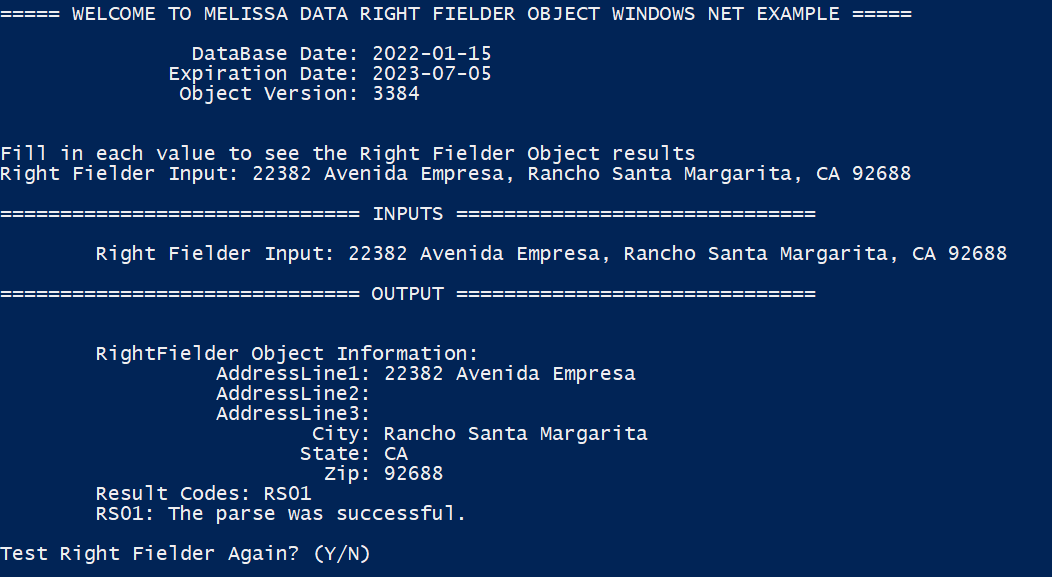
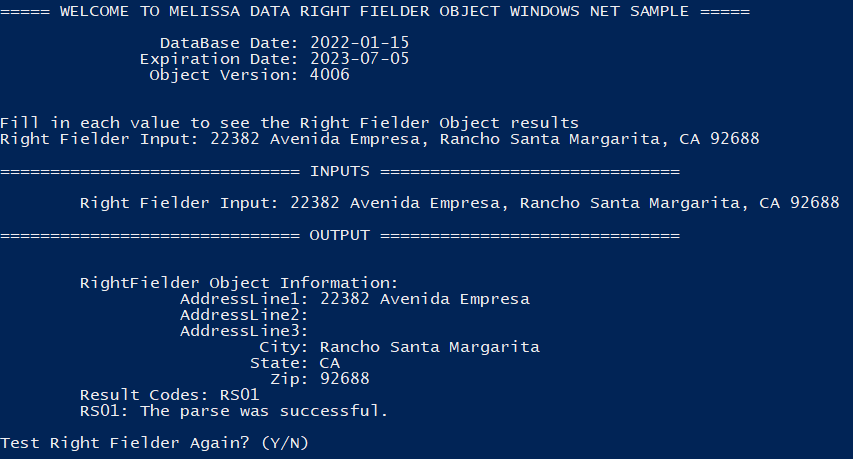
Commit C# Dotnet sample code for Right Fielder Object with .NET 6.0

diff --git a/MelissaDataRightFielderObjectWindowsNETSample/Program.cs b/MelissaDataRightFielderObjectWindowsNETSample/Program.cs
@@ -5,7 +5,7 @@ using System.IO;
 using System.Reflection;
 using MelissaData;
 
-namespace MelissaDataRightFielderObjectWindowsNETExample
+namespace MelissaDataRightFielderObjectWindowsNETSample
 {
   class Program
   {
@@ -47,12 +47,11 @@ namespace MelissaDataRightFielderObjectWindowsNETExample
           }
         }
       }
-
     }
 
     static void RunAsConsole(string license, string testInput, string dataPath)
     {
-      Console.WriteLine("\n\n===== WELCOME TO MELISSA DATA RIGHT FIELDER OBJECT WINDOWS NET EXAMPLE =====\n");
+      Console.WriteLine("\n\n===== WELCOME TO MELISSA DATA RIGHT FIELDER OBJECT WINDOWS NET SAMPLE =====\n");
 
       RightFielderObject rightFielderObject = new RightFielderObject(license, dataPath);
 
@@ -129,7 +128,6 @@ namespace MelissaDataRightFielderObjectWindowsNETExample
         //Console.WriteLine($"\t          Unrecognized: {rightFielderObject.mdRightFielder.GetUnrecognized()}");
         Console.WriteLine($"\tResult Codes: {dataContainer.ResultCodes}");
 
-
         String[] rs = dataContainer.ResultCodes.Split(',');
         foreach (String r in rs)
           Console.WriteLine($"        {r}: {rightFielderObject.mdRightFielder.GetResultCodeDescription(r, mdRightFielder.ResultCdDescOpt.ResultCodeDescriptionLong)}");
@@ -164,7 +162,6 @@ namespace MelissaDataRightFielderObjectWindowsNETExample
           }
         }
       }
-
       Console.WriteLine("\n============ THANK YOU FOR USING MELISSA DATA NET OBJECT ===========\n");
     }
   }
@@ -183,20 +180,7 @@ namespace MelissaDataRightFielderObjectWindowsNETExample
       mdRightFielder.SetLicenseString(license);
       dataFilePath = dataPath;
       
-      /**
-       * DatabaseDate is the date of your data files. The data files should be one month behind the DQT release.  
-       * If you are using the 2020-10-15 release, the DatabaseDate should be 2020-09-15.
-       * 
-       * If you see a different date either download the new data files or use the Melissa Updater program to
-       * update your data files. 
-       * 
-       * If 1970-00-00 is the DatabaseDate, the Right Fielder Object was unable to reach the data files.
-       * 
-       * ---------------------------READING THIS MAY SAVE YOU HOURS OF YOUR TIME-------------------------------
-       * If the DatabaseDate is not consistent with the data files and your are having issues getting results
-       * using mdRightFielder, it is likely a license string issue and yours may have expired.
-       */
-
+      // If you see a different date than expected, check your license string and either download the new data files or use the Melissa Updater program to update your data files.  
       mdRightFielder.SetPathToRightFielderFiles(dataFilePath);
       mdRightFielder.ProgramStatus pStatus = mdRightFielder.InitializeDataFiles();
 
@@ -211,7 +195,7 @@ namespace MelissaDataRightFielderObjectWindowsNETExample
       Console.WriteLine($"              Expiration Date: {mdRightFielder.GetLicenseExpirationDate()}");
 
       /**
-       * This number should match with file properties of the mdRightFielder.dll File Version.
+       * This number should match with file properties of the Melissa Data Object binary file.
        * If TEST appears with the build number, there may be a license key issue.
        */
       Console.WriteLine($"               Object Version: {mdRightFielder.GetBuildNumber()}\n");
@@ -220,7 +204,6 @@ namespace MelissaDataRightFielderObjectWindowsNETExample
     // This will call the lookup function to process the input as well as generate the result codes
     public void ExecuteObjectAndResultCodes(ref DataContainer data)
     {
-
       // These are the configuarble pieces of the right fielder object. We are setting what kind of information we want to be looked up
       // SetUserPattern Method - Ex. Social Security Number
 
@@ -230,8 +213,7 @@ namespace MelissaDataRightFielderObjectWindowsNETExample
 
       // ResultsCodes explain any issues phone object has with the object.
       // List of result codes for Phone object
-      // https://wiki.melissadata.com/index.php?title=Result_Code_Details#RightFielder_Object
-
+      // https://wiki.melissadata.com/?title=Result_Code_Details#RightFielder_Object
     }
   }
 

diff --git a/README.md b/README.md
@@ -1,8 +1,8 @@
-# Melissa Data Right Fielder Object Windows Net Example
+# Melissa Data Right Fielder Object Windows Net Sample
 
 ## Purpose
 
-This is an example of the Melissa Data Right Fielder Object using C#
+This is a sample of the Melissa Data Right Fielder Object using C#
 
 The console will ask the user for:
 
@@ -19,9 +19,9 @@ And return
 
 ## Tested Environments
 
-- Windows 64-bit .NET Core 3.1 and .NET 5.0
+- Windows 64-bit .NET 6.0, .NET 5.0, .NET Core 3.1
 - Powershell 5.1
-- Melissa data files for 2022-11
+- Melissa data files for 2022-12
 
 ## Required File(s) and Programs
 
@@ -38,28 +38,28 @@ This is the c++ code of the Melissa Data Object.
 
 These instructions will get you a copy of the project up and running on your local machine for development and testing purposes.
 
-This project is compatible with both .NET Core 3.1 and .NET 5.0. If you would like to run this project for .NET 5.0, proceed with the following procedures but check for and download .NET 5.0 instead.
+This project is compatible with .NET 6.0, .NET 5.0, and .NET Core 3.1. If you would like to run this project for any other version besides .NET 6.0, proceed with the following procedures but check for and download your desired .NET version.
 
 #### Install the Dotnet Core SDK
-Before starting, make sure that the .NET Core 3.1 SDK has been correctly installed on your machine (If you have Visual Studio installed, you most likely have it already). If you are unsure, you can check by opening a command prompt window and typing the following:
+Before starting, make sure that the .NET 6.0 SDK has been correctly installed on your machine (If you have Visual Studio installed, you most likely have it already). If you are unsure, you can check by opening a command prompt window and typing the following:
 
 `dotnet --list-sdks`
 
-If the .NET Core 3.1 SDK is already installed, you should see it in the following list:
+If the .NET 6.0 SDK is already installed, you should see it in the following list:
 
 ![alt text](/screenshots/dotnet_output.PNG)
 
-As long as the above list contains version `3.1.xxx` (underlined in red), then you can skip to the next step. If your list does not contain version 3.1, or you get any kind of error message, then you will need to download and install the .NET Core 3.1 SDK from the Microsoft website.
+As long as the above list contains version `6.0.xxx` (underlined in red), then you can skip to the next step. If your list does not contain version 6.0, or you get any kind of error message, then you will need to download and install the .NET 6.0 SDK from the Microsoft website.
 
 To download, follow this link: https://dotnet.microsoft.com/en-us/download/dotnet
 
-Select `.NET Core 3.1` and you will be navigated to the download page.
+Select `.NET 6.0` and you will be navigated to the download page.
 
 Click and download the `x64` SDK installer for your operating system.
 
 (IMPORTANT: Make sure you download the SDK, NOT the runtime. The SDK contains both the runtime as well as the tools needed to build the project.)
 
-![alt text](/screenshots/sdkDownload.jpg)
+![alt text](/screenshots/net6.png)
 
 Once clicked, your web browser will begin downloading an installer for the SDK. Run the installer and follow all of the prompts to complete the installation (your computer may ask you to restart before you can continue). Once all of that is done, you should be able to verify that the SDK is installed with the `dotnet --list-sdks` command.
 
@@ -96,20 +96,21 @@ Melissa Updater is a CLI application allowing the user to update their Melissa a
 	- It will handle all of the data download/path and dll(s) for you. 
 2.  If you already have the latest DQS Release (ZIP), you can find the data file(s) and dll(s) in there
 	- Use the location of where you copied/installed the data and update the "$DataPath" variable in the powershell script.
-	- Copy all the dll(s) mentioned above into the `MelissaDataRightFielderObjectWindowsNETExample` project folder.
+	- Copy all the dll(s) mentioned above into the `MelissaDataRightFielderObjectWindowsNETSample` project folder.
 
 ----------------------------------------
 
 #### Configure Target Framework
 
-Depending on your target .NET framework, you may need to configure the powershell script. In order to do this, open up the `MelissaDataRightFielderObjectWindowsNETExample.ps1` for editing, proceed to the bottom of the script where you will find this section of code.
+Depending on your target .NET framework, you may need to configure the powershell script. In order to do this, open up the `MelissaDataRightFielderObjectWindowsNETSample.ps1` for editing, proceed to the bottom of the script where you will find this section of code.
 
-Default set for .NET Core 3.1
+Default set for .NET 6.0
 ```
-#dotnet publish -f="net5.0" -c Release -o $ProjectPath\Build MelissaDataRightFielderObjectWindowsNETExample\MelissaDataRightFielderObjectWindowsNETExample.csproj
-dotnet publish -f="netcoreapp3.1" -c Release -o $ProjectPath\Build MelissaDataRightFielderObjectWindowsNETExample\MelissaDataRightFielderObjectWindowsNETExample.csproj
+dotnet publish -f="net6.0" -c Release -o $BuildPath MelissaDataRightFielderObjectWindowsNETSample\MelissaDataRightFielderObjectWindowsNETSample.csproj
+#dotnet publish -f="net5.0" -c Release -o $BuildPath MelissaDataRightFielderObjectWindowsNETSample\MelissaDataRightFielderObjectWindowsNETSample.csproj
+#dotnet publish -f="netcoreapp3.1" -c Release -o $BuildPath MelissaDataRightFielderObjectWindowsNETSample\MelissaDataRightFielderObjectWindowsNETSample.csproj
 ```
-The target framework is specified with the -f flag found in the command line. If you wish to use the .NET 5.0 framework, please uncomment the line containing that framework and comment out the line containing the .NET Core 3.1 framework (# to comment).
+The target framework is specified with the -f flag found in the command line. If you wish to use any version besides .NET 6.0, please uncomment the line containing that framework and comment out the line containing the .NET 6.0 framework (# to comment).
 
 ## Run Powershell Script
 
@@ -127,23 +128,23 @@ There are two modes:
 
 	The script will prompt the user for the right fielder input, then use the provided right fielder input to test the Right Fielder object. For example:
 	```
-	$ .\MelissaDataRightFielderObjectWindowsNETExample.ps1
+	$ .\MelissaDataRightFielderObjectWindowsNETSample.ps1
 	```
     For quiet mode:
     ```
-    $ .\MelissaDataRightFielderObjectWindowsNETExample.ps1 -quiet
+    $ .\MelissaDataRightFielderObjectWindowsNETSample.ps1 -quiet
     ```
 - Command Line 
 
 	You can pass a right fielder input in ```-rfinput``` parameter and a license string in ```-license``` parameter to test right fielder object. For example:
 	```
-    $ .\MelissaDataRightFielderObjectWindowsNETExample.ps1 -rfinput "22382 Avenida Empresa, Rancho Santa Margarita, CA 92688"
-	$ .\MelissaDataRightFielderObjectWindowsNETExample.ps1 -rfinput "22382 Avenida Empresa, Rancho Santa Margarita, CA 92688" -license "<your_license_string>" 
+    $ .\MelissaDataRightFielderObjectWindowsNETSample.ps1 -rfinput "22382 Avenida Empresa, Rancho Santa Margarita, CA 92688"
+	$ .\MelissaDataRightFielderObjectWindowsNETSample.ps1 -rfinput "22382 Avenida Empresa, Rancho Santa Margarita, CA 92688" -license "<your_license_string>" 
     ```
 	For quiet mode:
     ```
-    $ .\MelissaDataRightFielderObjectWindowsNETExample.ps1 -rfinput "22382 Avenida Empresa, Rancho Santa Margarita, CA 92688" -quiet
-	$ .\MelissaDataRightFielderObjectWindowsNETExample.ps1 -rfinput "22382 Avenida Empresa, Rancho Santa Margarita, CA 92688" -license "<your_license_string>" -quiet
+    $ .\MelissaDataRightFielderObjectWindowsNETSample.ps1 -rfinput "22382 Avenida Empresa, Rancho Santa Margarita, CA 92688" -quiet
+	$ .\MelissaDataRightFielderObjectWindowsNETSample.ps1 -rfinput "22382 Avenida Empresa, Rancho Santa Margarita, CA 92688" -license "<your_license_string>" -quiet
     ```
 This is the expected output from a successful setup for interactive mode:
 
@@ -151,7 +152,7 @@ This is the expected output from a successful setup for interactive mode:
 
 ## Troubleshooting
 
-Troubleshooting for errors found while running your example program.
+Troubleshooting for errors found while running your sample program.
 
 ### C# Errors:
 
